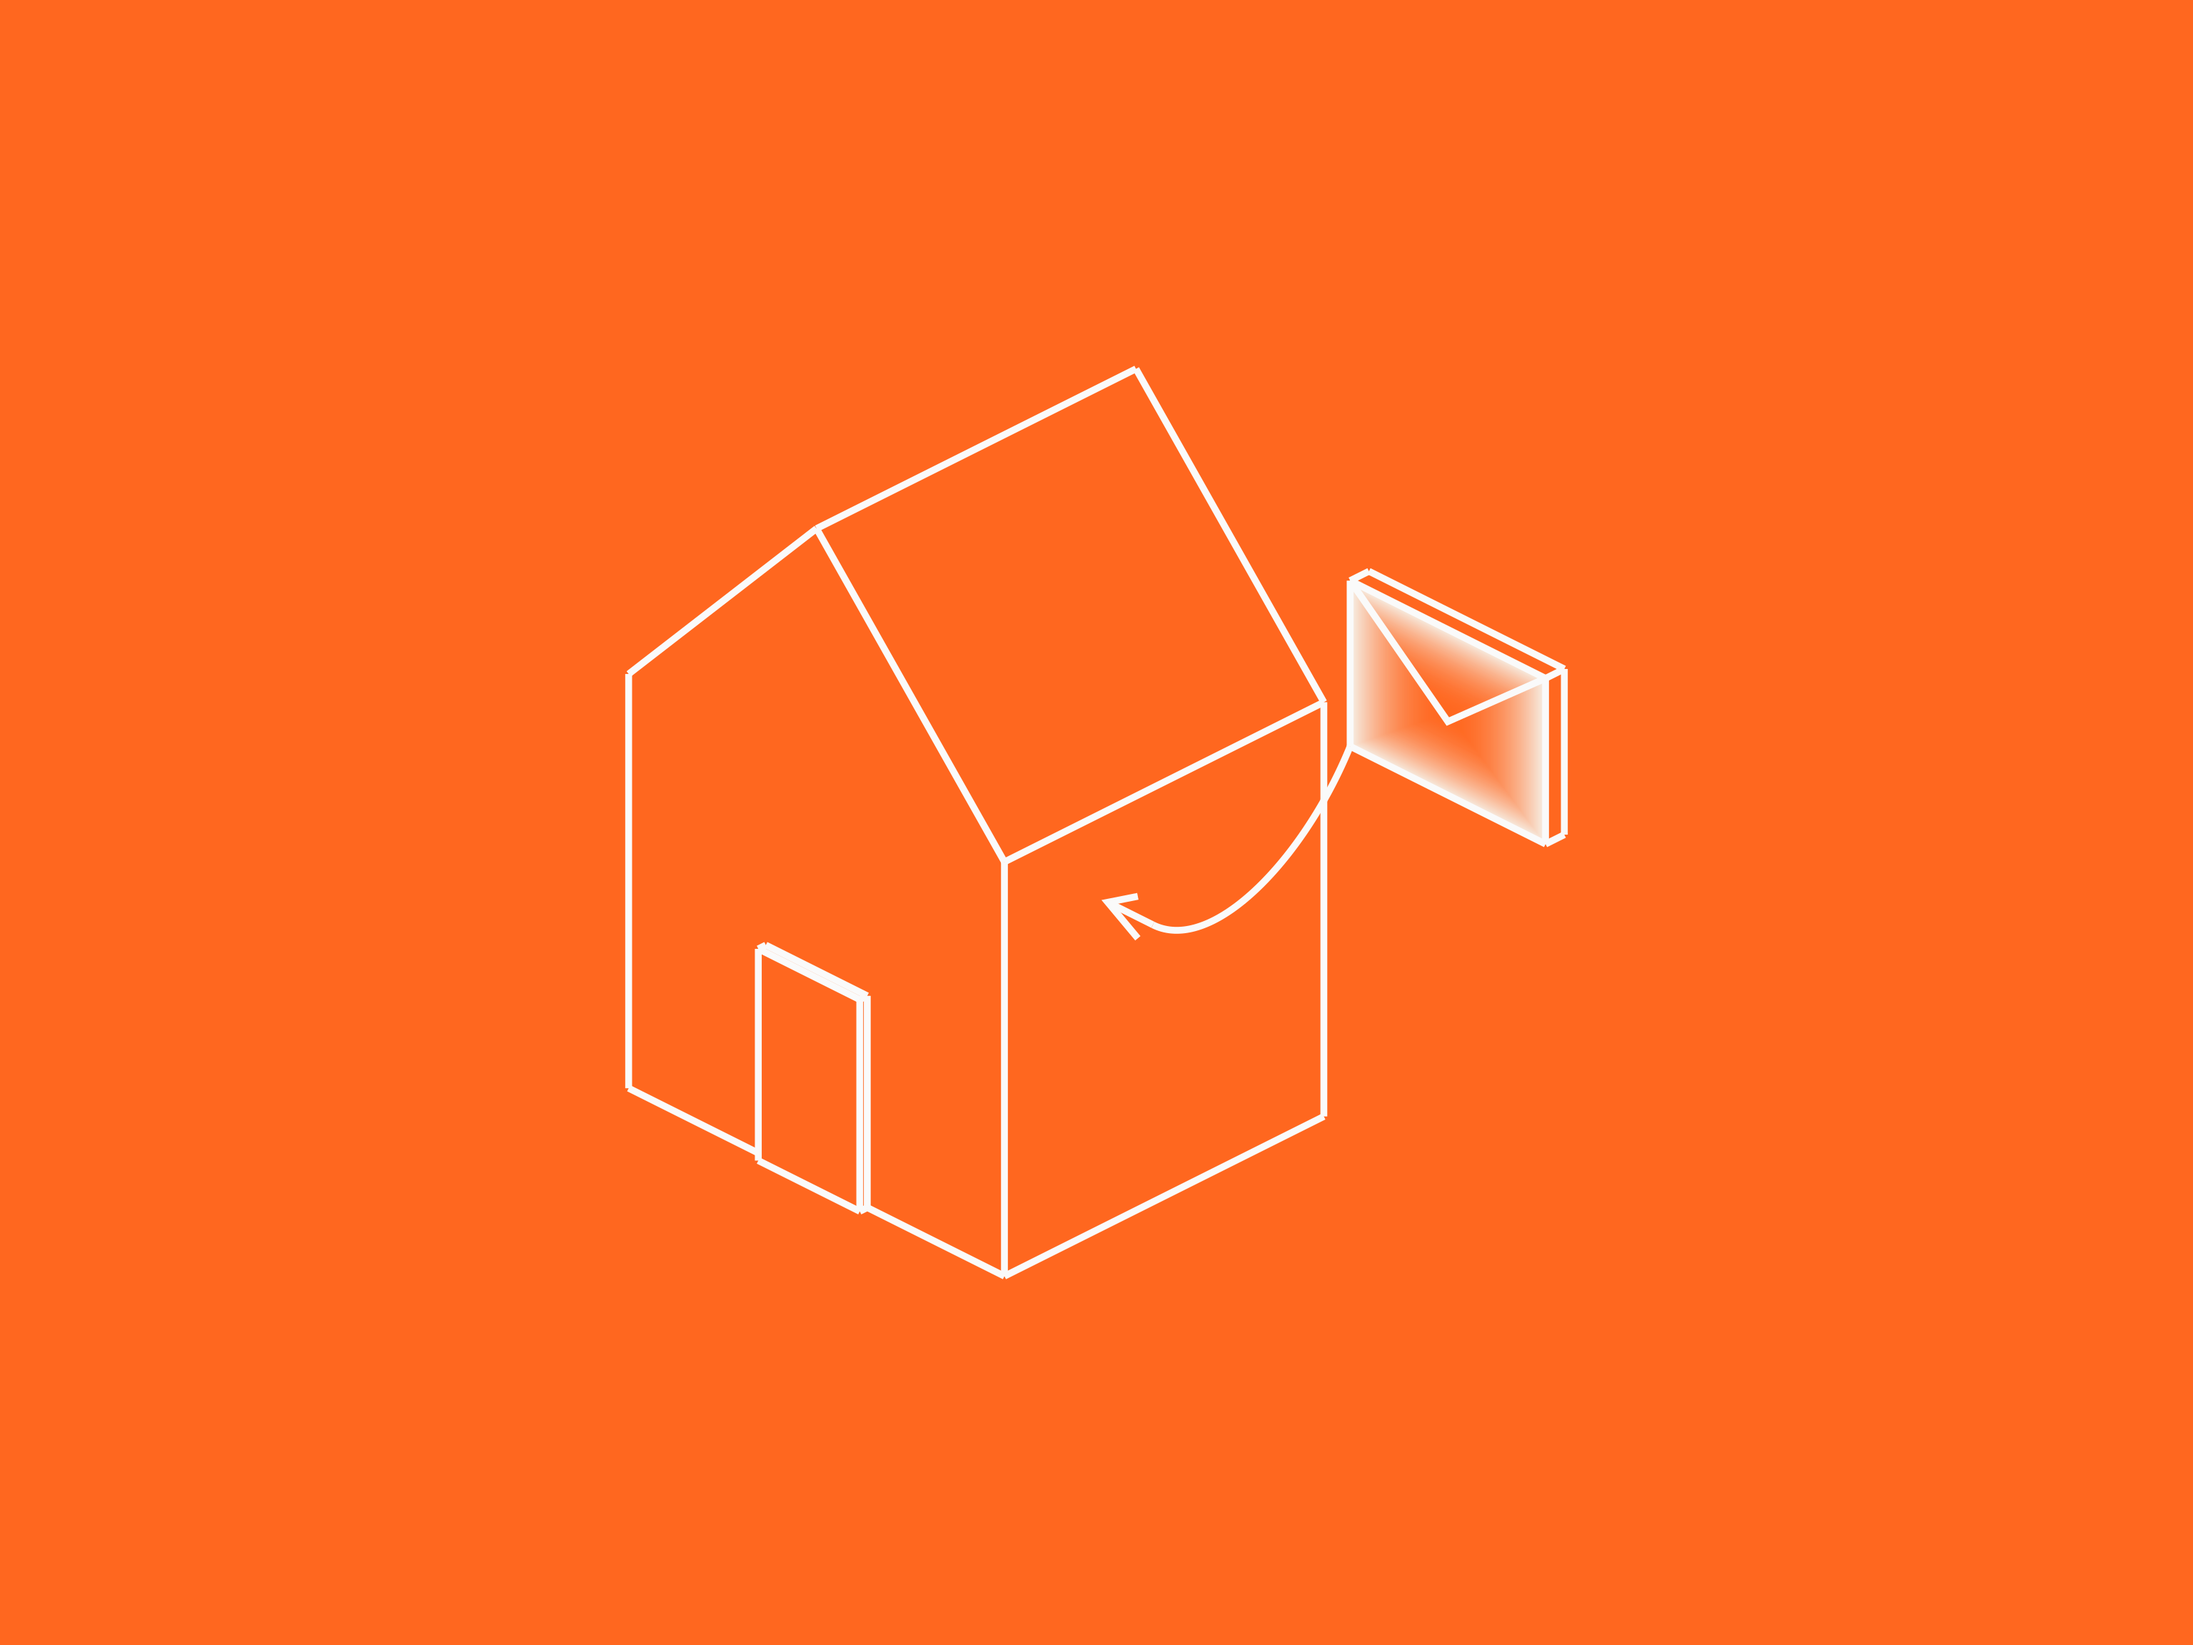
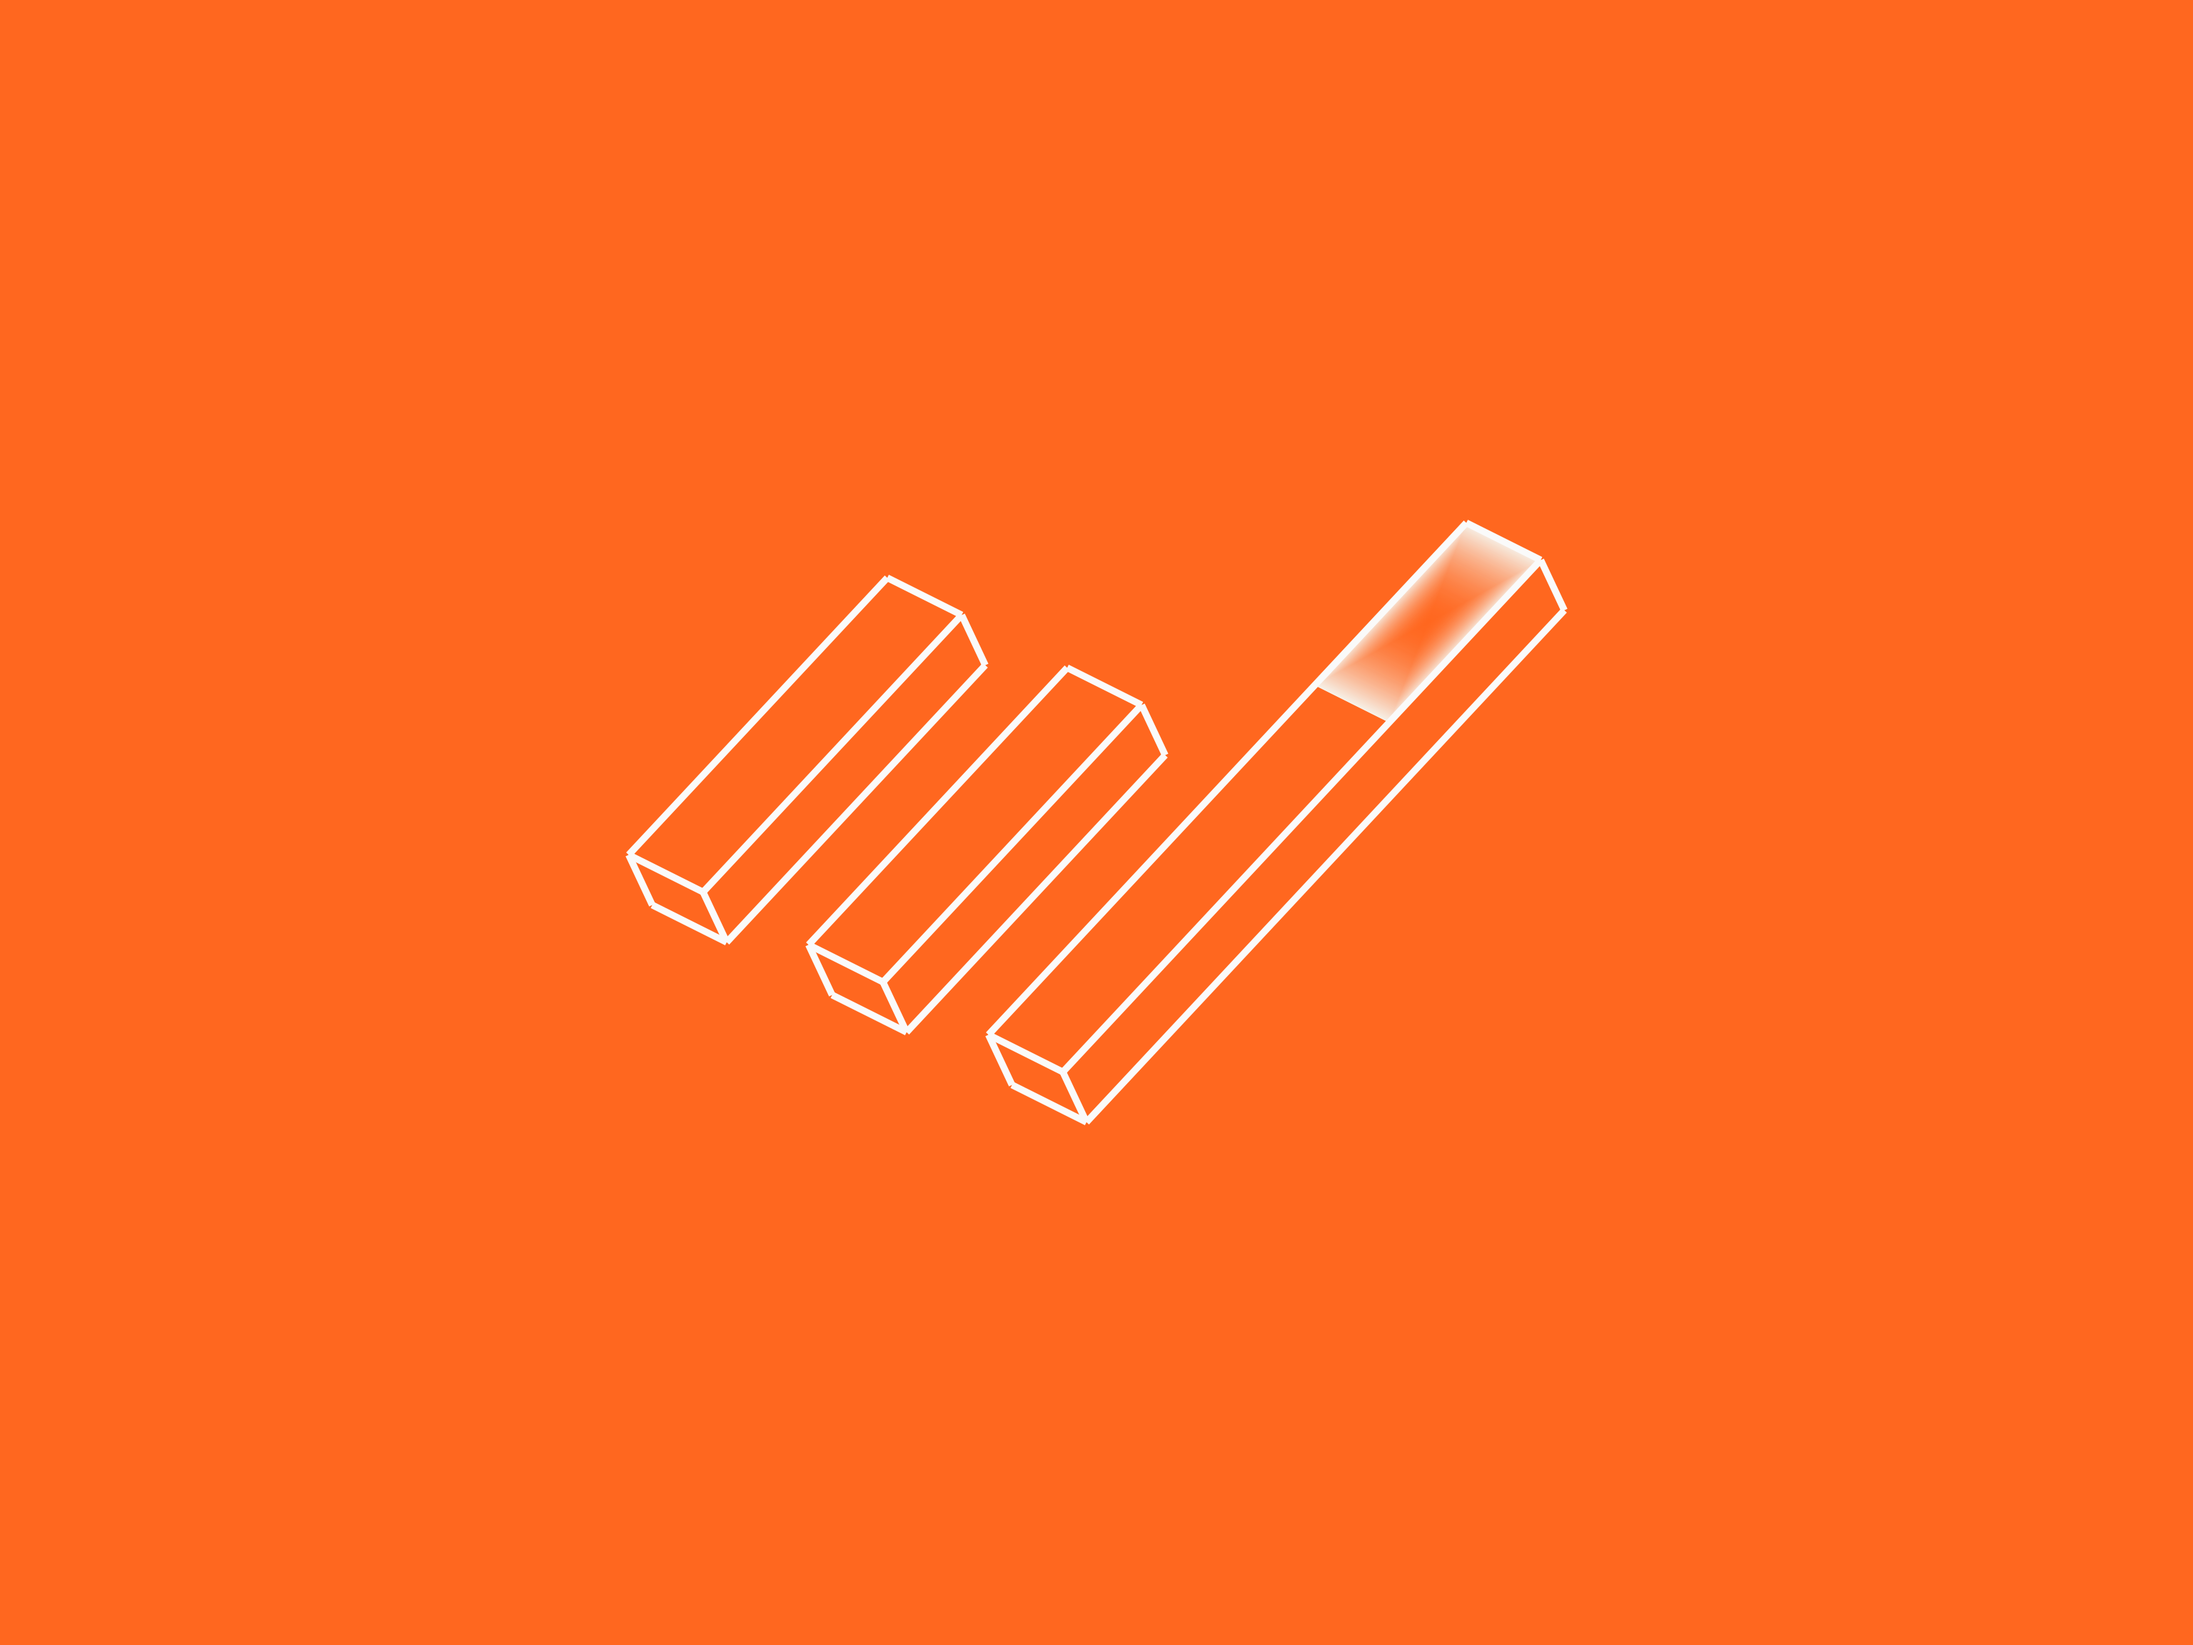
Rework speed-to-lead as coherent abstract geometry

diff --git a/docs/design/blog-illustrations-2026-11-17/speed-to-lead/decision.md b/docs/design/blog-illustrations-2026-11-17/speed-to-lead/decision.md
@@ -1,11 +1,11 @@
 # The homeowner asked three companies at lunch
 
-Selected concept: a recognizable gabled house receives one message directly through a short curved connection. The message is the single highlighted part. The house identifies the homeowner immediately; the direct arrival expresses a useful reply while the customer is still deciding. This replaces the rejected racing spheres and earlier cubes, retained in `recipe.race-rejected.mjs` and `recipe.cubes-rejected.mjs`.
+Selected abstract concept: three parallel substantial paths share one departure line. Two stop together; one reaches decisively farther and its advanced end is highlighted. Progress is visible directly in equal widths, equal thicknesses, a common start and different reach. There are no cubes, racing atoms, house, arrows or disconnected endpoint tokens. This follows the user's latest preference for abstract imagery.
 
-Source: https://atomsai.com/resources/blog/speed-to-lead; the local imported article describes leads from several channels and the first useful response winning the homeowner's business.
+Source: https://atomsai.com/resources/blog/speed-to-lead; the imported article explains why the first useful response wins while equivalent competitors wait. The superseded house is retained in `recipe.house-superseded.mjs` and prior rejected concepts remain separately preserved.
 
-Geometry: one complete pentagonal house prism, with matching front and back gables, equal roof slopes, two side walls and a floor. A shallow door panel is physically attached to the front wall at floor level. A 52 × 36 message envelope has 5 units of real depth and a structural flap seam on its front face. Its connector begins on the envelope corner and ends with an in-plane arrow exactly at the receiving house wall. Nothing floats as an unrelated decoration.
+Geometry: three complete rectangular paths, each 24 units wide and 18 thick, separated by 34-unit real gaps. Two paths are 92 units long; the advanced path is 170. All starts meet the same physical baseline and all three share a support plane. A single rigid 25-degree model inclination gives the still a compact diagonal silhouette within the square working frame; dimensions and right angles are preserved, with no axis rescaling or camera trick. Only the leading top section carries the focal fade.
 
-Validation: all eight Dark/Light neutral, oblique, back and underside exports passed and the contact sheet was inspected. The house and envelope read clearly in neutral and oblique views. Back and underside show coherent actual solids, a correctly attached door and roof, and the same connector; the front envelope highlight disappears when its face turns away. No exposed triangulation, duplicate roof seams, detached connection or impossible joint was visible. Recipe assertions verify a closed house shell with exactly two faces sharing every edge, a centered roof ridge, positive depth, floor-aligned attached door, message separation, and exact connector endpoints.
+Validation: all eight export checks pass and all Dark/Light neutral, oblique, back and underside views were inspected. The neutral shows broad gaps and an obvious advanced endpoint with no tangencies. Reverse and underside views preserve complete solids and plausible depth overlap; no broken beam, disconnected corner or highlight spill was visible. The shared top planes prevent raised objects occluding the focal surface. Assertions check the common baseline in the model's physical basis, equal cross-sections, shared support plane, broad real gaps and a highlight entirely beyond the two shorter endpoints.
 
-Root integration preserves the user-approved colored field, Paper outline, Cream accent, SVG and 4:3 presentation, with slightly thinner global line weight. Diagnostic review files retain the skill palette. Selected geometric master: `review/neutral-dark.svg`.
+Parent preserves approved v2 field colors, Paper outlines, Cream highlights, direct SVG, 4:3 placement and thinner 1.6 line weight. Diagnostic review files retain the skill palette. Selected geometric master: `review/neutral-dark.svg`.
